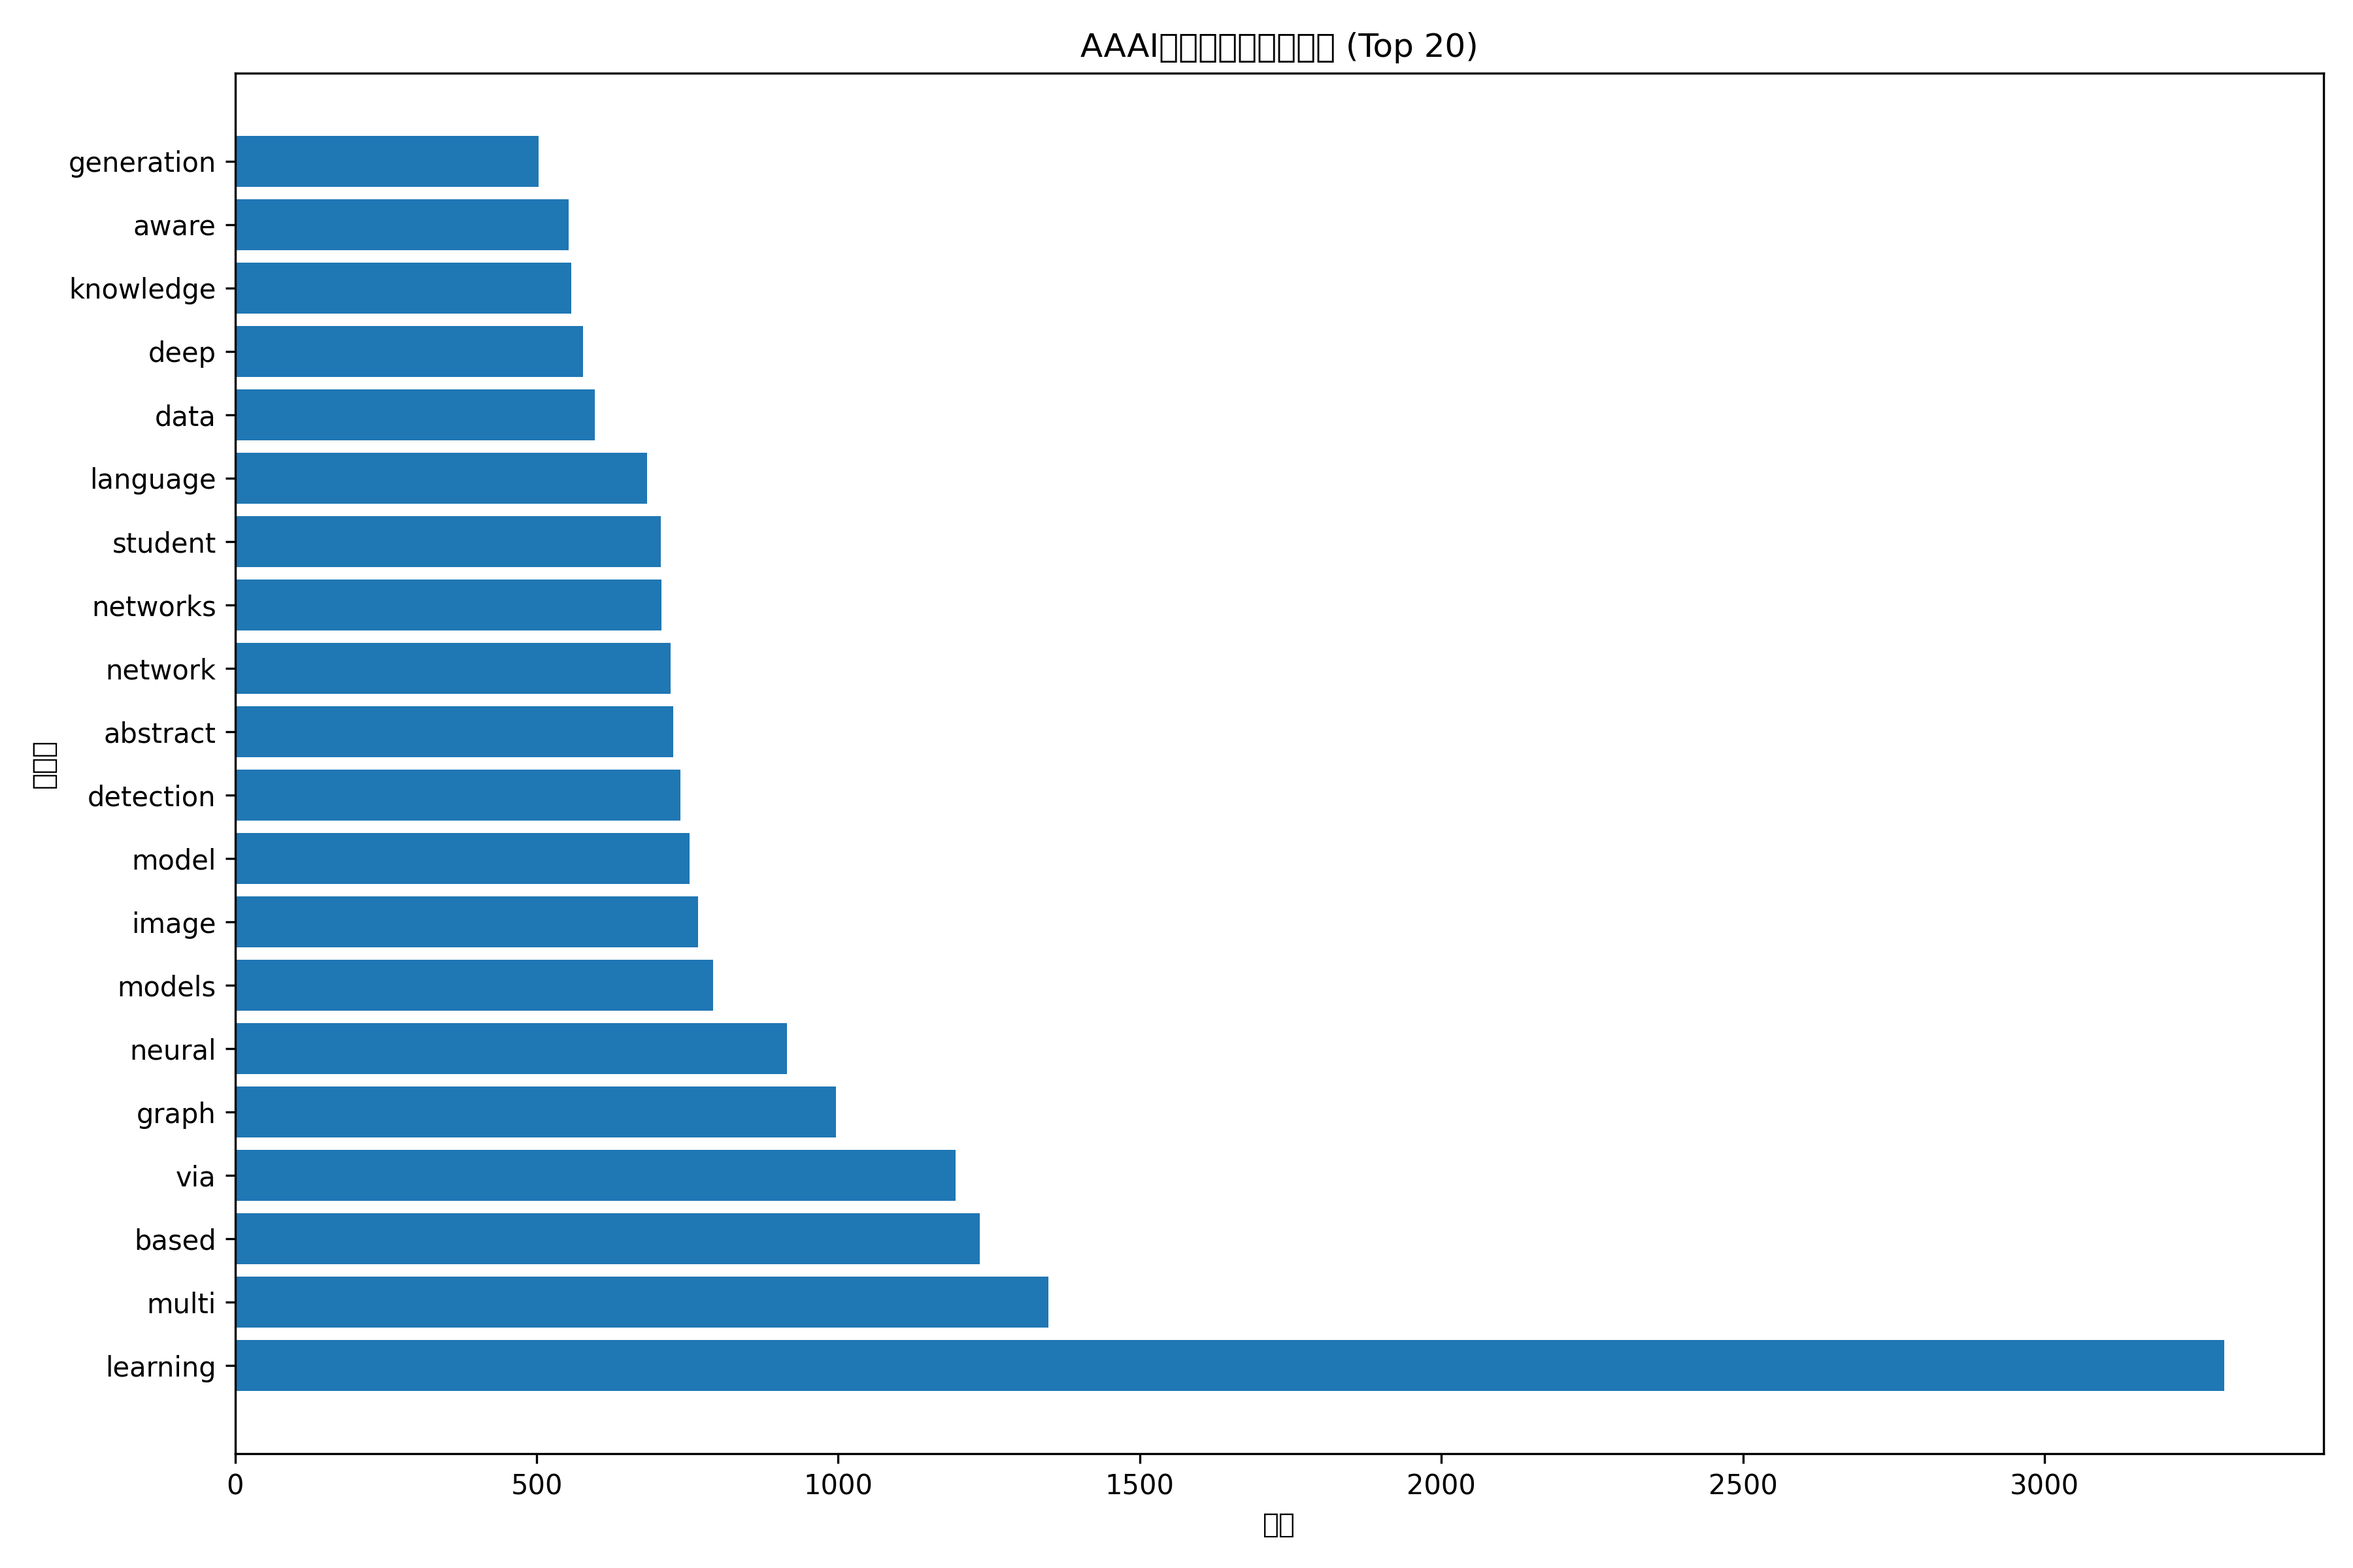
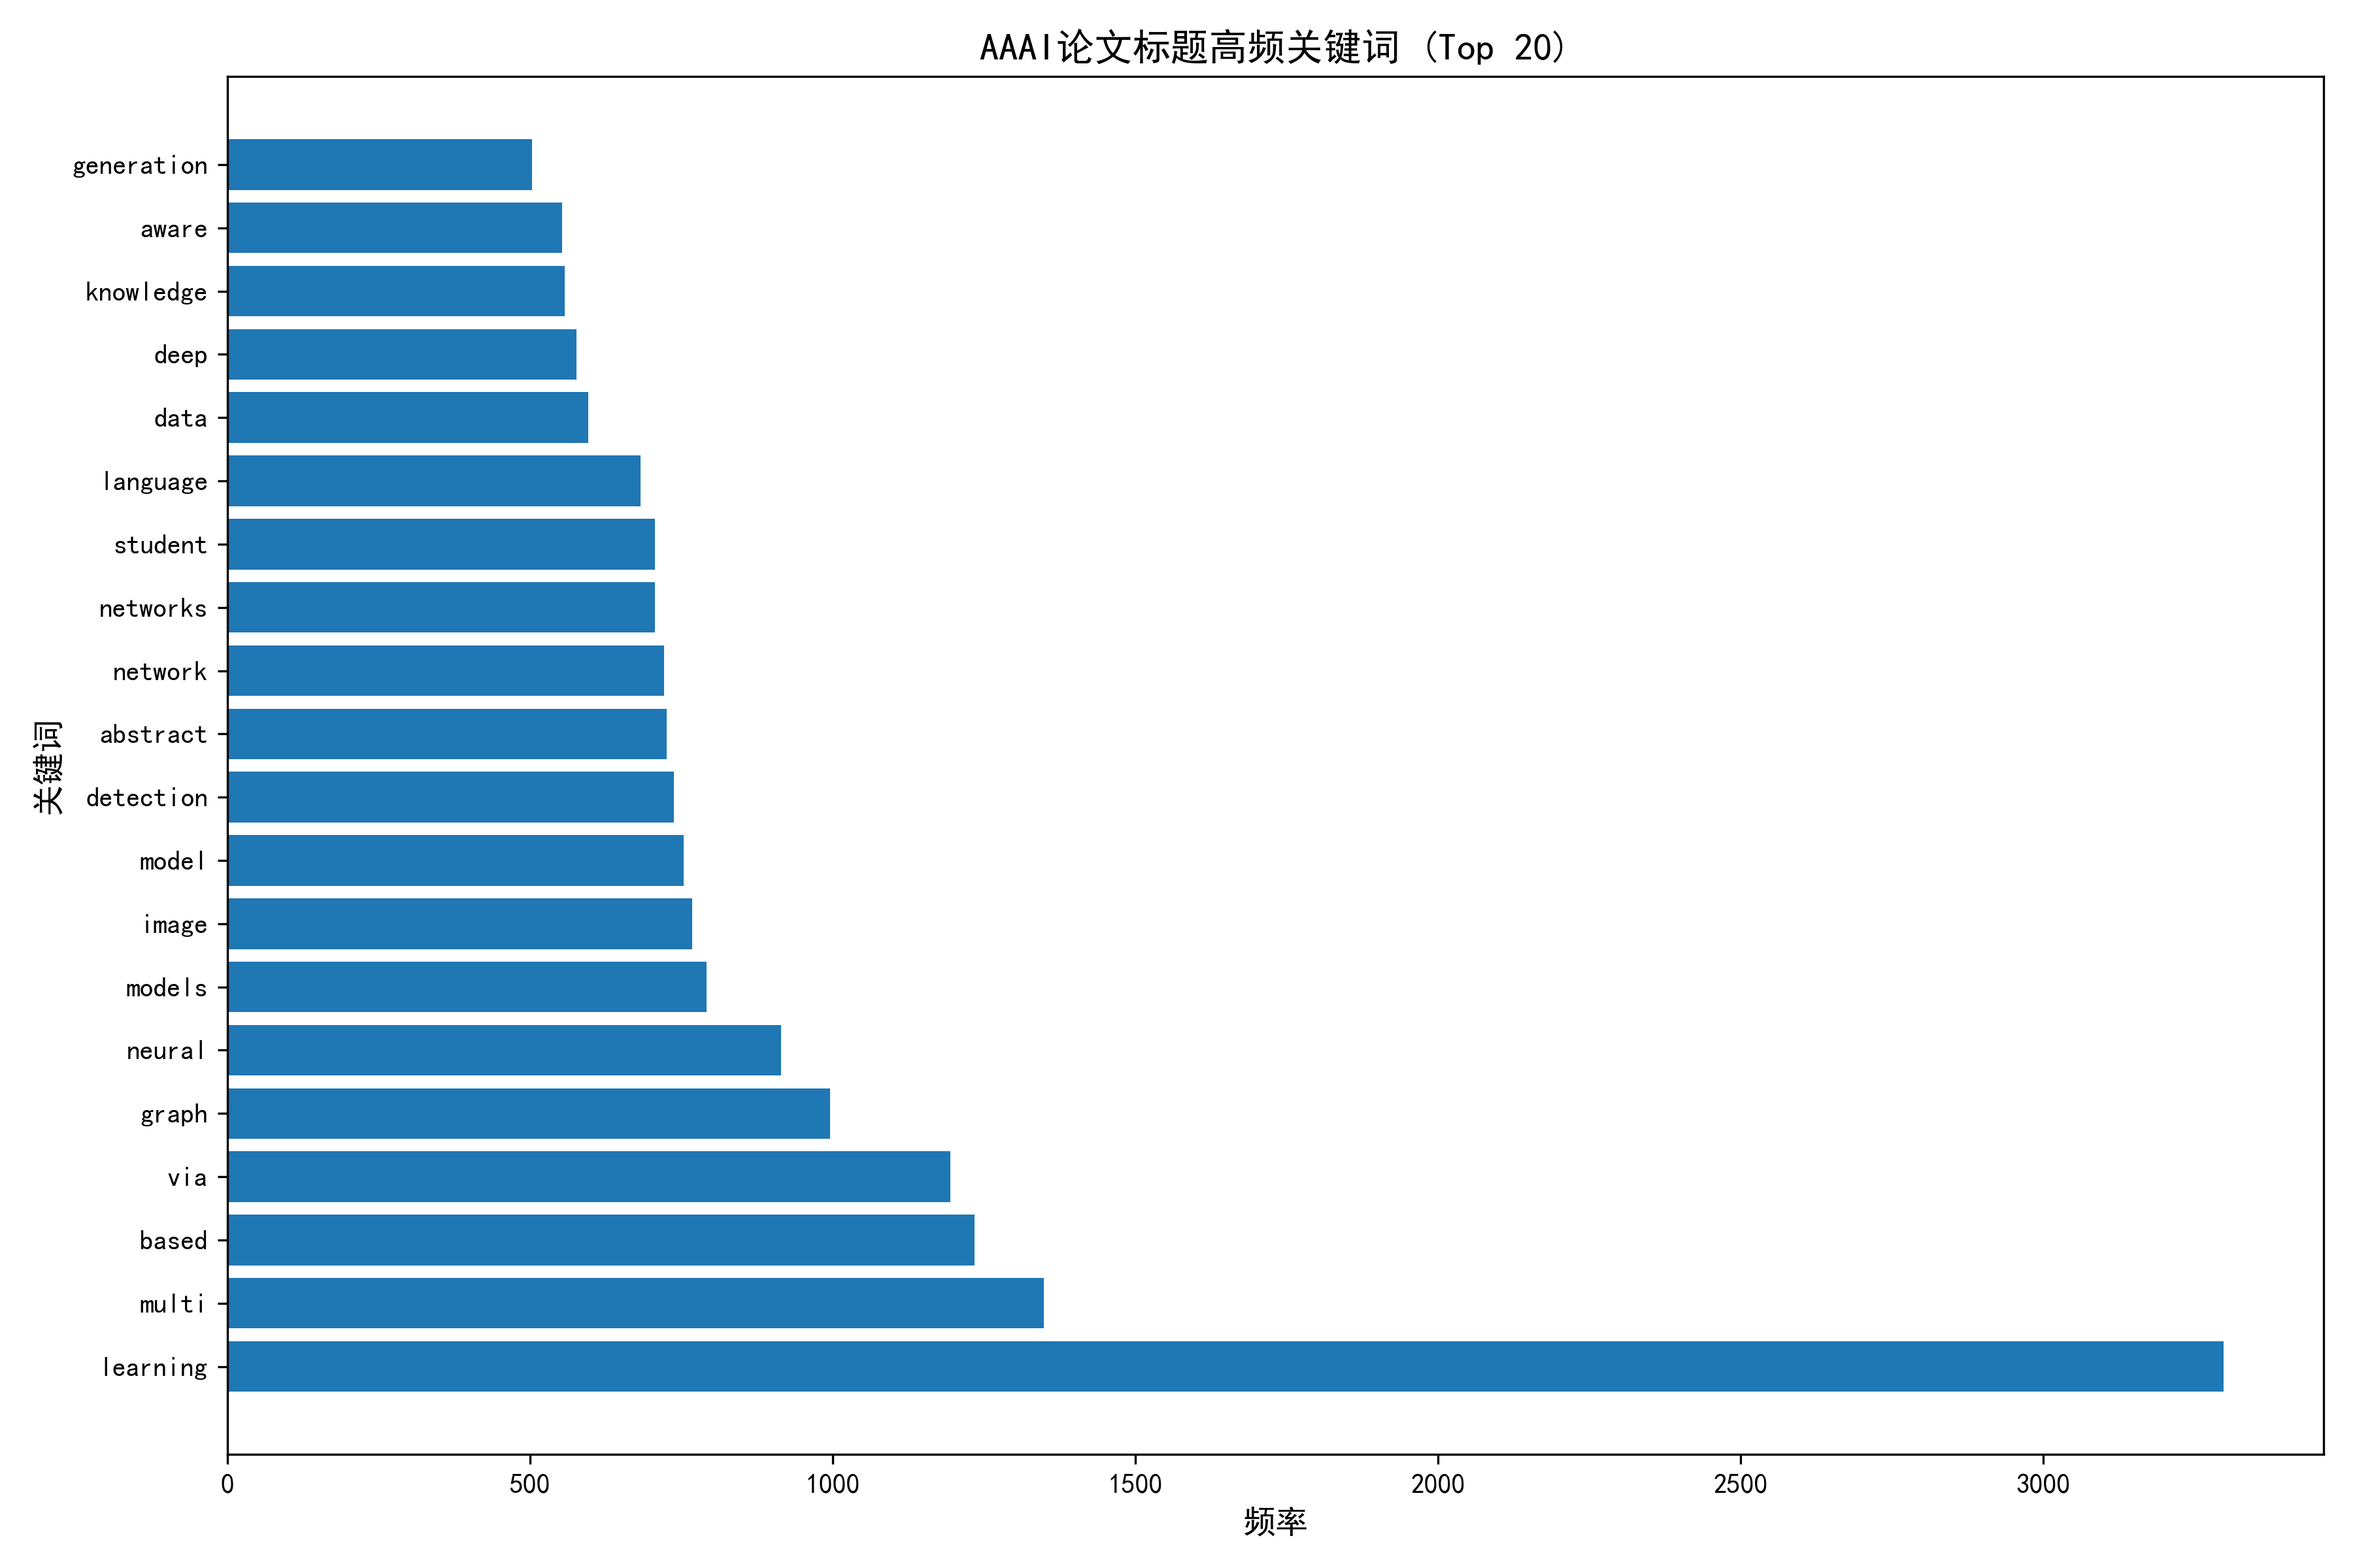
Add files via upload

diff --git a/DBLP/DBLP/DBLP.py b/DBLP/DBLP/DBLP.py
@@ -8,6 +8,47 @@ from collections import Counter
 import matplotlib
 matplotlib.use('Agg')  # 使用非交互式后端，避免GUI问题
 import matplotlib.pyplot as plt
+from matplotlib.font_manager import FontProperties
+
+# 设置中文字体支持
+def set_chinese_font():
+    """设置中文字体，解决中文显示乱码问题"""
+    try:
+        # 尝试使用系统中的中文字体
+        if os.name == 'nt':  # Windows系统
+            font_paths = [
+                'C:/Windows/Fonts/simhei.ttf',  # 黑体
+                'C:/Windows/Fonts/simsun.ttc',  # 宋体
+                'C:/Windows/Fonts/msyh.ttc',    # 微软雅黑
+                'C:/Windows/Fonts/simkai.ttf'   # 楷体
+            ]
+            
+            # 检查字体是否存在并设置
+            for font_path in font_paths:
+                if os.path.exists(font_path):
+                    font_prop = FontProperties(fname=font_path)
+                    plt.rcParams['font.family'] = font_prop.get_name()
+                    print(f"已设置中文字体: {font_path}")
+                    return font_prop
+                    
+            # 如果以上字体都不存在，使用matplotlib内置的中文字体
+            plt.rcParams['font.sans-serif'] = ['SimHei', 'Microsoft YaHei', 'KaiTi', 'STSong', 'SimSun']
+            plt.rcParams['axes.unicode_minus'] = False  # 解决负号显示问题
+            print("已尝试使用matplotlib内置中文字体")
+            
+        else:  # Linux/Mac系统
+            plt.rcParams['font.sans-serif'] = ['WenQuanYi Micro Hei', 'Heiti TC', 'SimHei', 'STHeiti']
+            plt.rcParams['axes.unicode_minus'] = False
+            print("已尝试使用系统中文字体")
+            
+    except Exception as e:
+        print(f"设置中文字体时出错: {e}")
+        print("将使用默认字体，中文可能显示为乱码")
+    
+    return None
+
+# 在程序开始时调用设置中文字体
+chinese_font = set_chinese_font()
 
 # 创建输出目录
 if not os.path.exists('output'):
@@ -198,9 +239,9 @@ def plot_keywords_bar(word_freq, conf_name, top_n=20):
         plt.figure(figsize=(12, 8))
         plt.barh(range(len(words)), counts, align='center')
         plt.yticks(range(len(words)), words)
-        plt.xlabel('频率')
-        plt.ylabel('关键词')
-        plt.title(f'{conf_name}论文标题高频关键词 (Top {top_n})')
+        plt.xlabel('频率', fontsize=12)
+        plt.ylabel('关键词', fontsize=12)
+        plt.title(f'{conf_name}论文标题高频关键词 (Top {top_n})', fontsize=14)
         plt.tight_layout()
         plt.savefig(f'output/{conf_name.lower()}_keywords_bar.png', dpi=300)
         print(f"已保存关键词频率图到 output/{conf_name.lower()}_keywords_bar.png")
